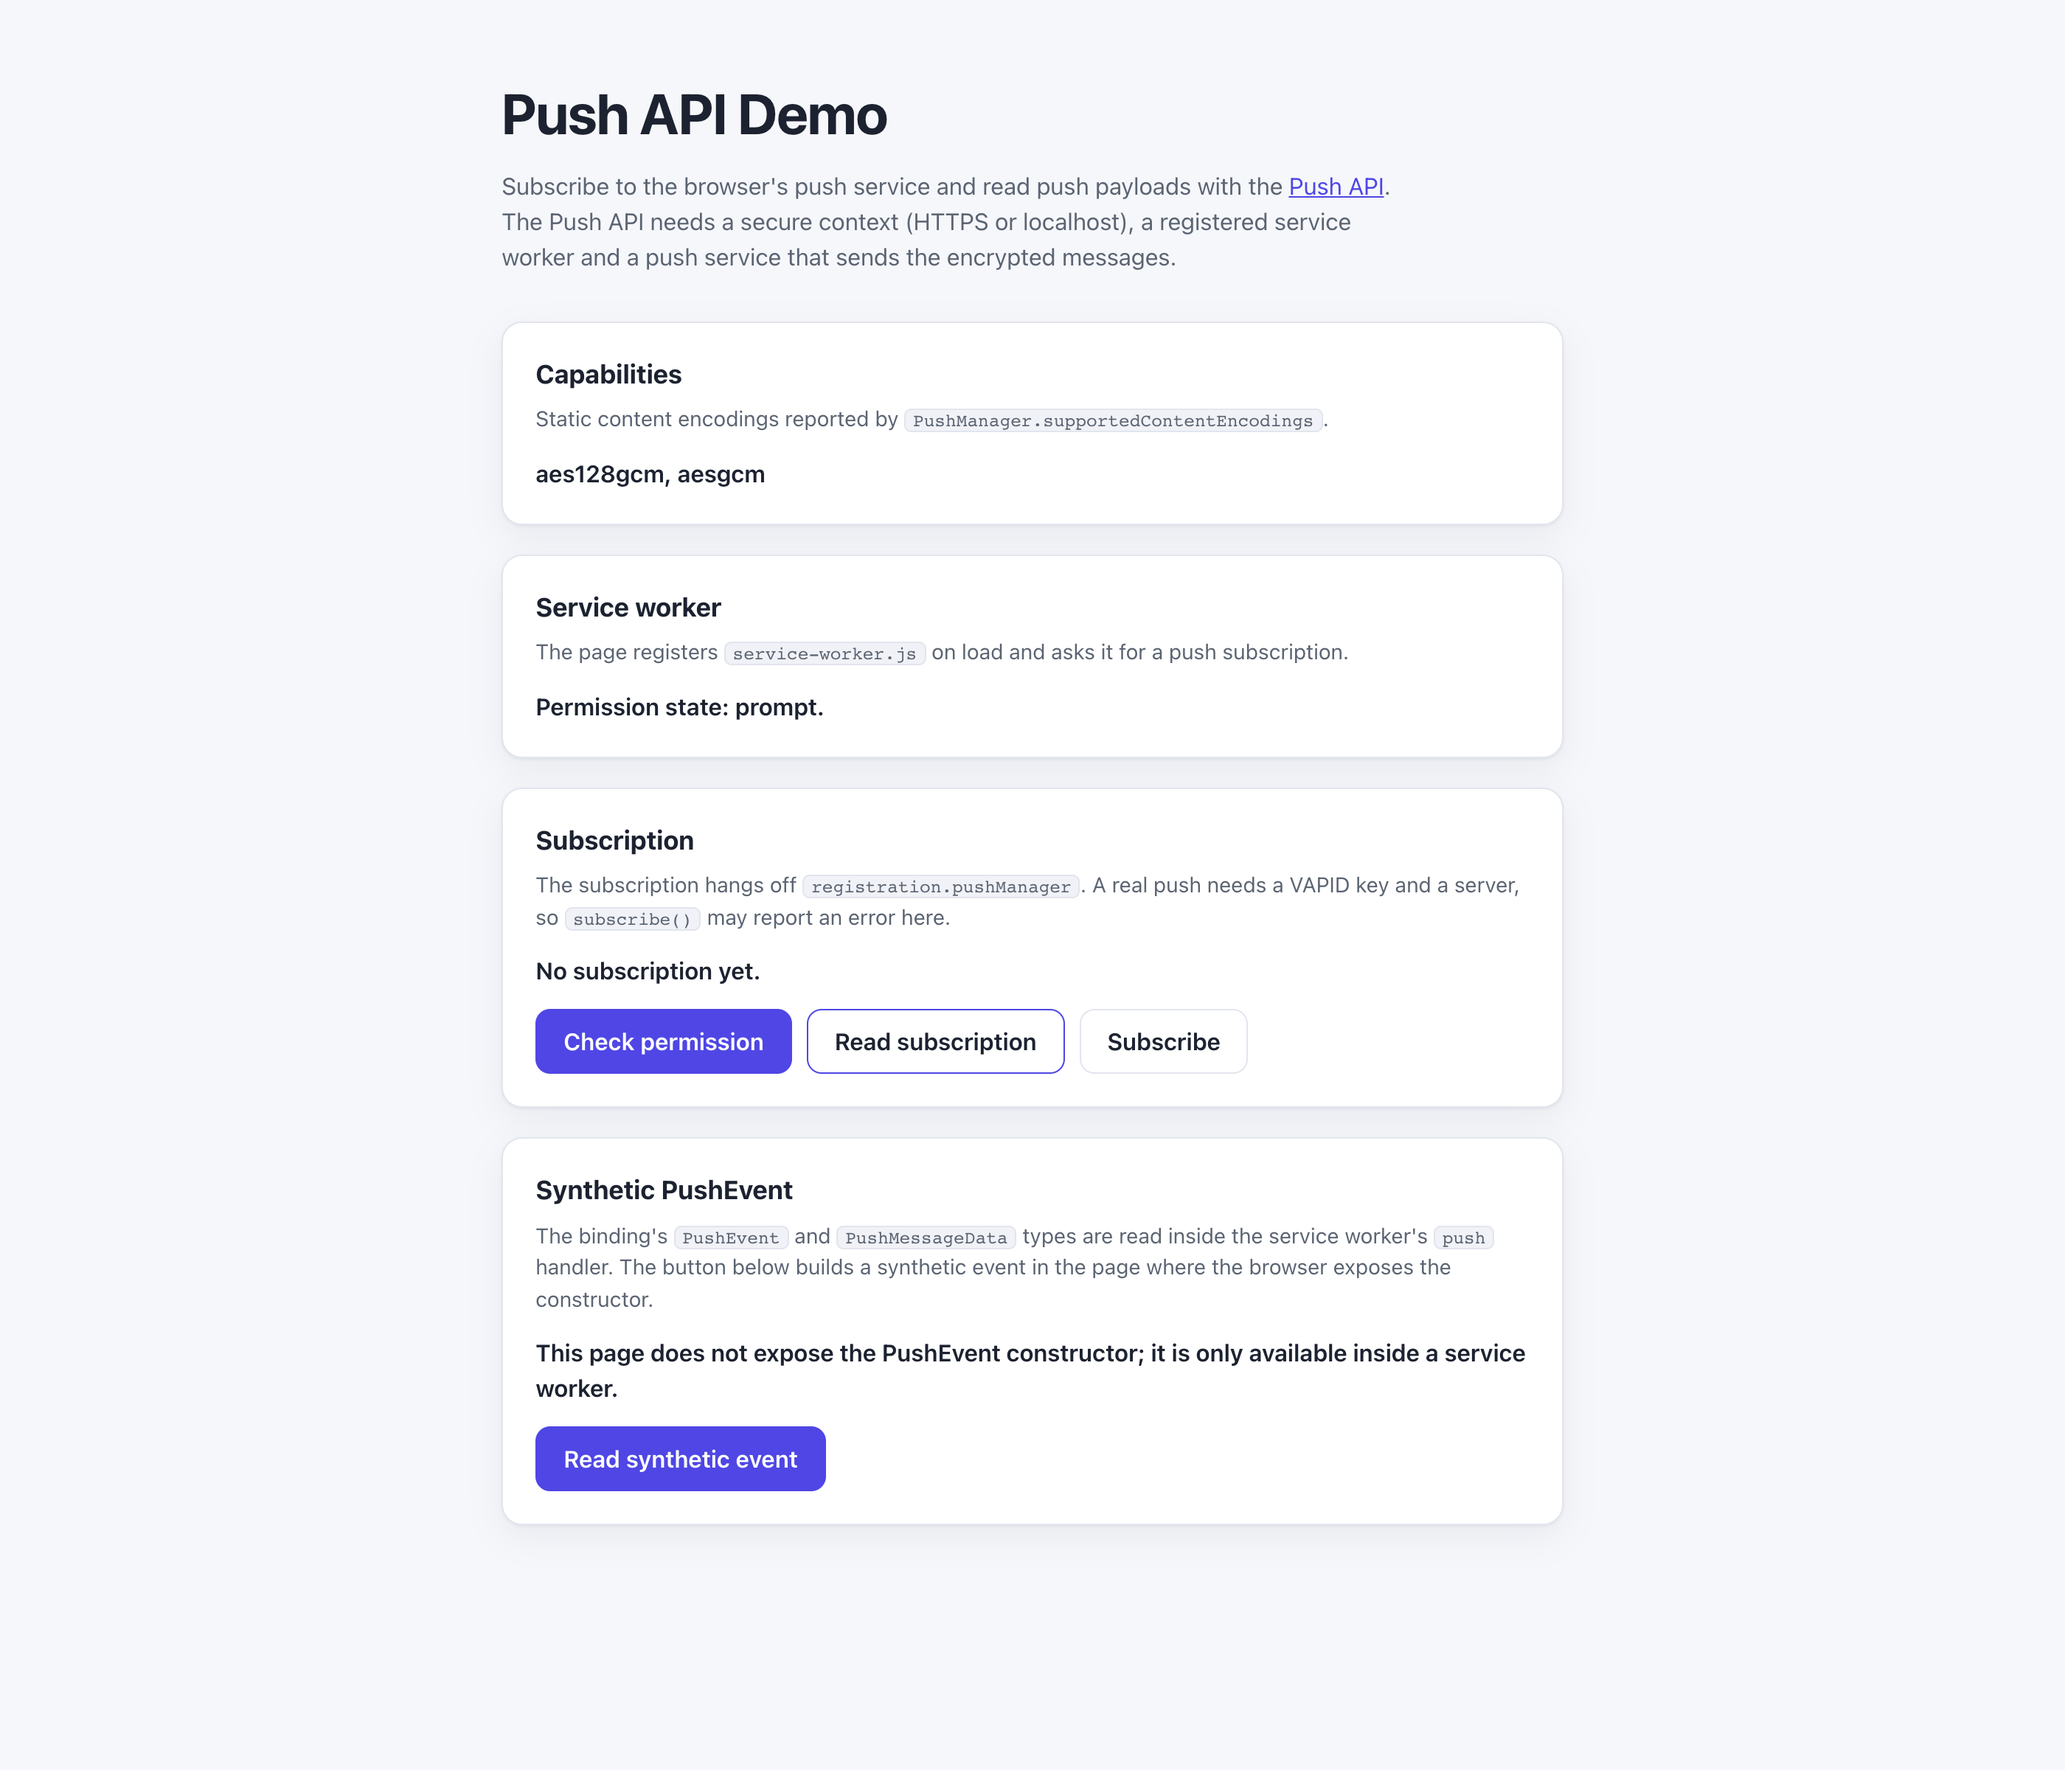
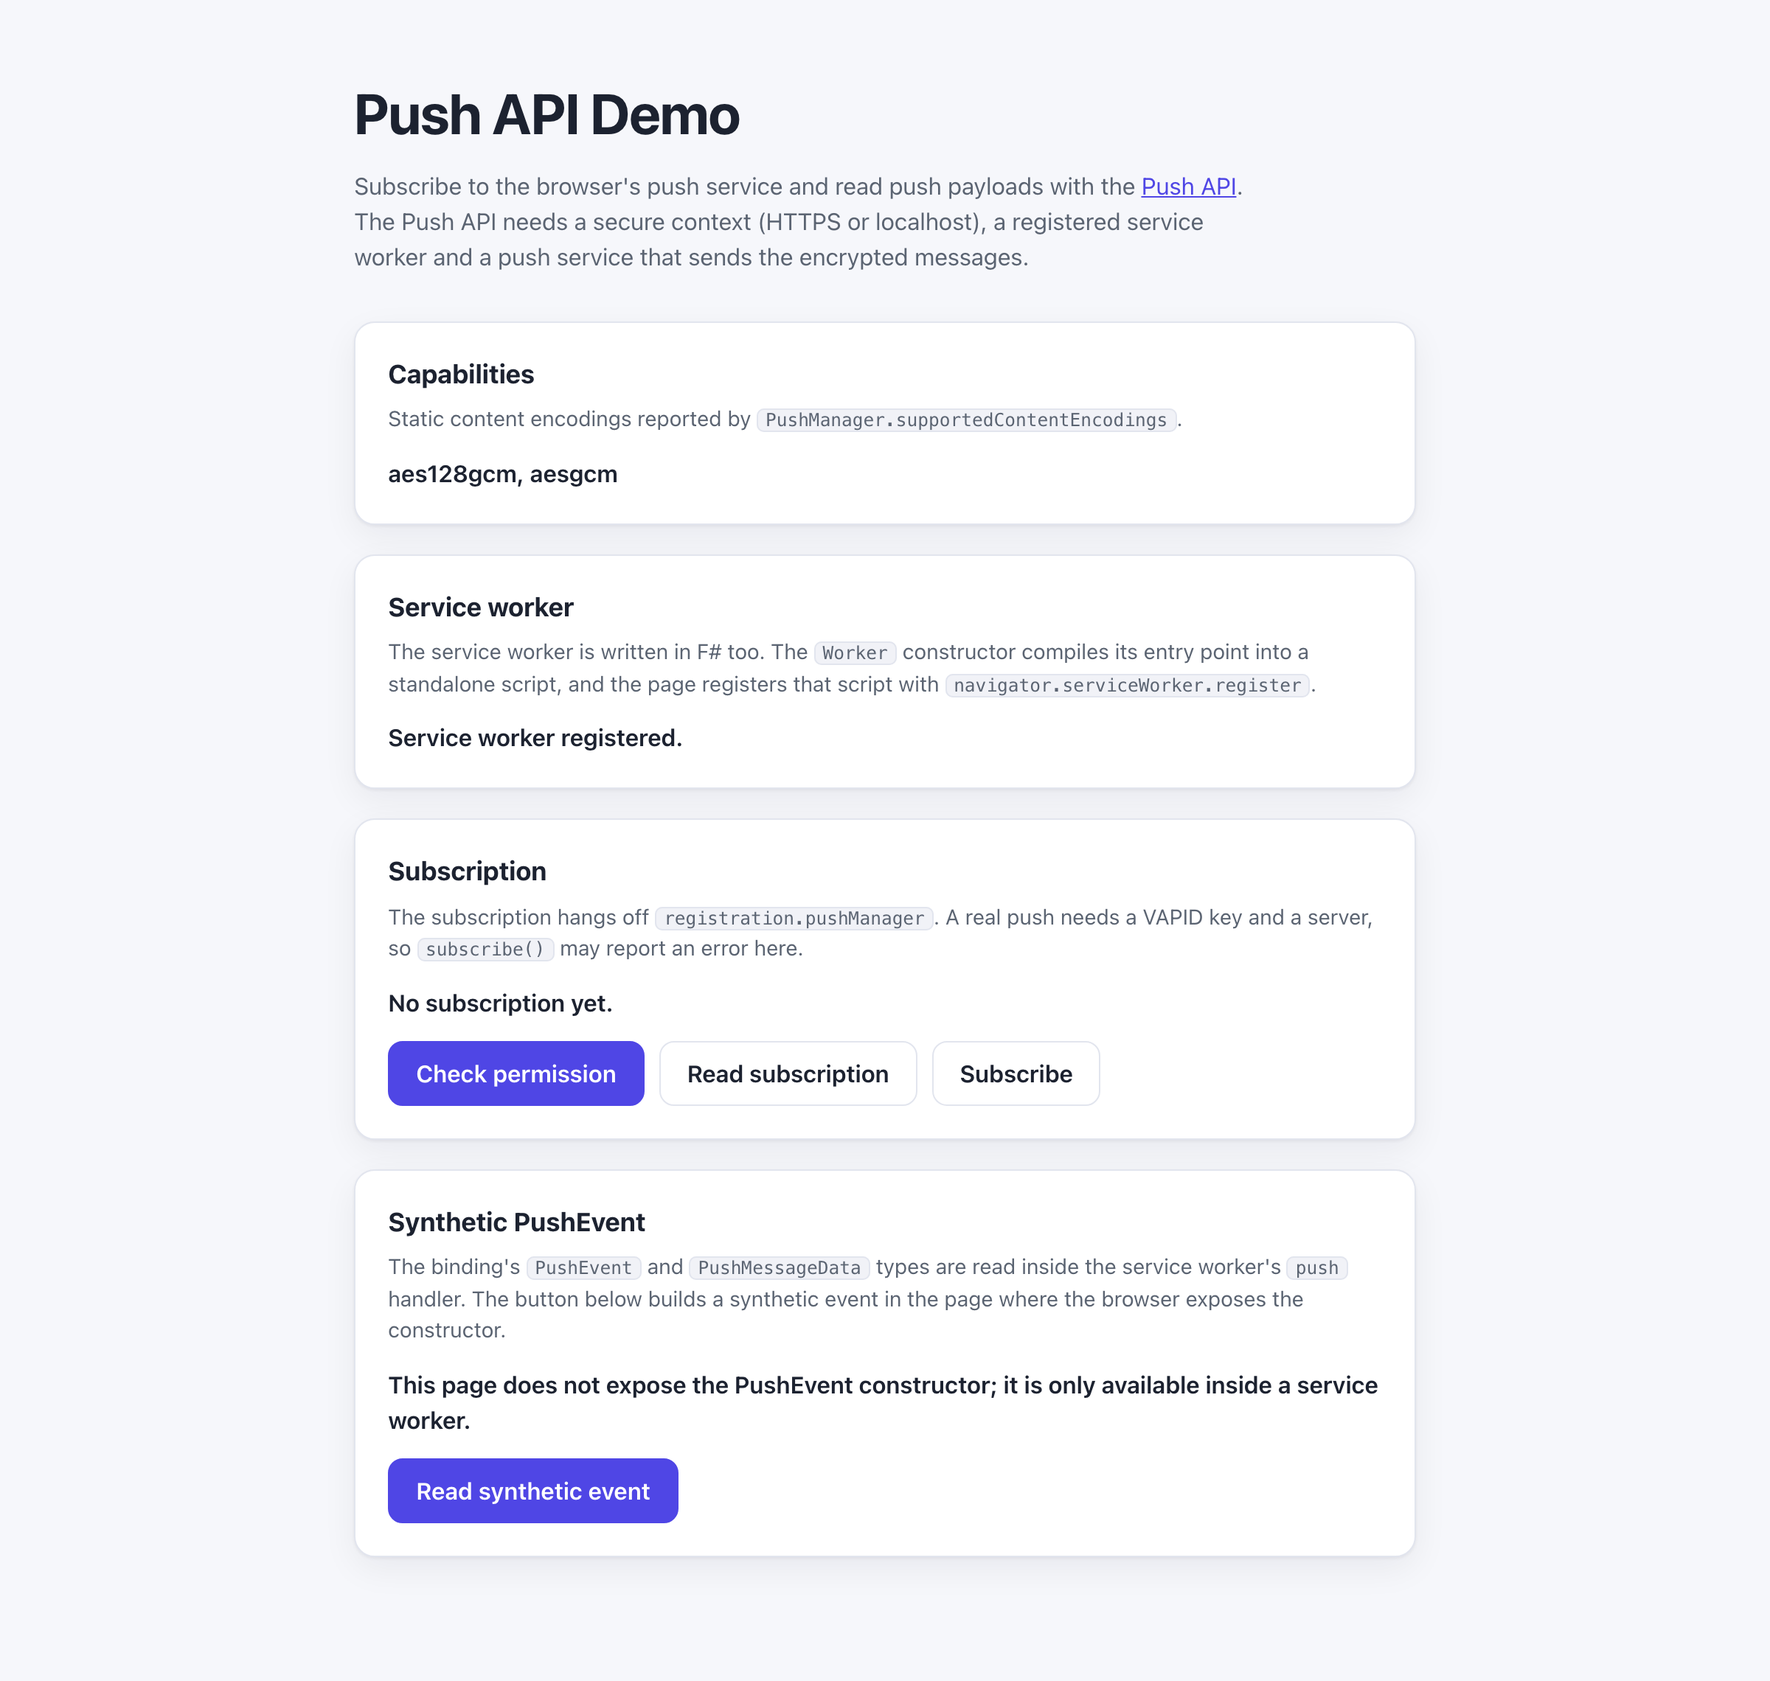
Write the service worker in F# too
The sample shipped a hand-written service-worker.js while the page was F#.
The Worker constructor compiles its entry point into a standalone script, so
the service worker can be written in F# as well.

- Add a ServiceWorker module: the install, activate, push and notificationclick
  handlers, reading the payload through the binding's PushEvent/PushMessageData.
- Register the generated script (type: module) with navigator.serviceWorker and
  keep the registration returned by register() for the pushManager calls.
- Set scriptBaseUrl to /Content/ so the generated worker path matches outputDir.
- Drop the hand-written wwwroot/service-worker.js.
- Update the page copy, README and sample screenshot.

diff --git a/WebSharper.Push.Sample/wwwroot/index.html b/WebSharper.Push.Sample/wwwroot/index.html
@@ -32,7 +32,9 @@
         <section class="card">
             <h2>Service worker</h2>
             <p class="hint">
-                The page registers <code>service-worker.js</code> on load and asks it for a push subscription.
+                The service worker is written in F# too. The <code>Worker</code> constructor compiles its
+                entry point into a standalone script, and the page registers that script with
+                <code>navigator.serviceWorker.register</code>.
             </p>
             <p class="status" role="status">${status}</p>
         </section>

diff --git a/README.md b/README.md
@@ -13,7 +13,7 @@ This repository contains:
 | Project | Purpose |
 | --- | --- |
 | `WebSharper.Push` | The binding: WIG definitions for `PushManager`, `PushSubscription`, `PushSubscriptionOptions`, `PushMessageData`, `PushEvent`, and their string enums. |
-| `WebSharper.Push.Sample` | An ASP.NET Core SPA sample that reports the browser's push capabilities, registers a service worker and drives the push subscription. |
+| `WebSharper.Push.Sample` | An ASP.NET Core SPA sample that reports the browser's push capabilities, registers a service worker and drives the push subscription. The service worker is written in F# too. |
 
 ## Live demos
 
@@ -25,6 +25,10 @@ The sample doubles as the binding's [test case](#running-the-sample): it reads
 `PushManager.supportedContentEncodings`, registers a service worker, queries `permissionState` and
 `getSubscription`, and attempts `subscribe`. A real push still needs a VAPID key and a server, so the
 sample reports the browser's own error instead of faking a subscription.
+
+Both the page and the service worker are written in F#. The service worker's entry point goes through the
+`Worker` constructor, so the compiler produces a standalone script
+(`WebSharper.Push.Sample.service-worker.js`) that the page then registers as the service worker.
 
 - **Sample (this repository):** <https://dotnet-websharper.github.io/PushAPI/>
 - **MDN Push API:** <https://developer.mozilla.org/en-US/docs/Web/API/Push_API>
@@ -77,16 +81,63 @@ module Demo =
 
 `registration` is a `ServiceWorkerRegistration`; its `pushManager` property exposes the `PushManager`. The
 `PushSubscriptionOptions` dictionary is passed to `subscribe()`, and `userVisibleOnly = true` is required by
-Chromium-based browsers. Handle `PushEvent` in the service worker, reading the payload through `PushMessageData`:
+Chromium-based browsers.
+
+### The service worker in F#
+
+The service worker is ordinary F# as well. `Worker` compiles its entry point into a standalone script, so
+passing a function to the constructor gives you both the script and the worker. Register the generated
+script with the browser's service worker API, and handle `push` there, reading the payload through
+`PushMessageData`:
 
 ```fsharp
 [<JavaScript>]
 module ServiceWorker =
-    let onPush (event: PushEvent) =
-        let data = event.Data
-        if not (Optional.isUndefined data) then
-            Console.Log(data.Value.Text())
+    // The service worker global scope is not modelled by core, so reach the
+    // service-worker-only APIs through inline accessors.
+    [<Inline "$self.addEventListener('push', $handler)">]
+    let onPush (self: obj) (handler: PushEvent -> unit) : unit = X<unit>
+
+    [<Inline "$self.registration.showNotification($title, { body: $body })">]
+    let showNotification (self: obj) (title: string) (body: string) : Promise<unit> = X<Promise<unit>>
+
+    [<Inline "$event.waitUntil($promise)">]
+    let waitUntil (event: obj) (promise: obj) : unit = X<unit>
+
+    let EntryPoint (self: DedicatedWorkerGlobalScope) =
+        let scope = box self
+        onPush scope (fun event ->
+            let data = event.Data
+            let body = if Optional.isDefined data then data.Value.Text() else "No payload"
+            waitUntil (box event) (showNotification scope "Push received" body))
 ```
+
+The script is emitted as a module, so register it with `type: "module"`:
+
+```fsharp
+[<JavaScript>]
+module Client =
+    [<Inline "$navigator.serviceWorker">]
+    let serviceWorker (navigator: obj) : obj = X<obj>
+
+    [<Inline "$sw.register($path, { type: 'module' })">]
+    let register (sw: obj) (path: string) : Promise<obj> = X<Promise<obj>>
+
+    let registerWorker () =
+        promise {
+            // The Worker constructor compiles the service worker's entry point
+            // into a standalone script; we only need the script, so the worker
+            // itself is terminated straight away.
+            let worker = new Worker("service-worker", fun self -> ServiceWorker.EntryPoint self)
+            worker.Terminate()
+            let sw = serviceWorker JS.Window.Navigator
+            let! registration = register sw "Content/workers/WebSharper.Push.Sample.service-worker.js"
+            return registration
+        }
+```
+
+The `Worker` constructor emits the script into `Content/workers/`, so `wsconfig.json` sets
+`"scriptBaseUrl": "/Content/"` to keep the generated path in sync with `outputDir`.
 
 ## Running the sample
 
@@ -98,8 +149,11 @@ dotnet run --project WebSharper.Push.Sample/WebSharper.Push.Sample.fsproj
 ```
 
 Open <http://localhost:50560/>. The page reports the browser's supported content encodings, registers
-`service-worker.js`, and lets you query the permission state, read the existing subscription and try to subscribe.
-The service worker's `push` handler logs incoming payloads and shows a notification.
+the generated service worker, and lets you query the permission state, read the existing subscription and
+try to subscribe. The service worker's `push` handler logs incoming payloads and shows a notification.
+
+The service worker script is generated at build time by the `Worker` constructor, so it is not committed;
+the `wwwroot/Content` folder is a build output.
 
 ## Building from source
 
@@ -118,7 +172,7 @@ The binding targets `netstandard2.0`; the sample targets `net10.0`.
 ## Deployment
 
 Pushing to `main` triggers `.github/workflows/ghpages.yml`, which builds the sample in Release and publishes
-`wwwroot` (including `service-worker.js`) to the `gh-pages` branch.
+`wwwroot` — including the generated service worker — to the `gh-pages` branch.
 
 ## Repository layout
 
@@ -128,12 +182,11 @@ WebSharper.Push/            # binding (WIG definitions)
   WebSharper.Push.fsproj
   wsconfig.json
 WebSharper.Push.Sample/     # ASP.NET Core SPA sample
-  Client.fs
+  Client.fs                 # the page and the F# service worker
   Startup.fs
   wwwroot/
     index.html
     site.css
-    service-worker.js
 docs/sample.png
 .github/workflows/ghpages.yml   # build + deploy the sample to GitHub Pages
 README.md
@@ -146,7 +199,11 @@ LICENSE.md
 - **Push service:** a push subscription is tied to a browser push service (FCM, Mozilla autopush, and so on) and to a
   server that sends the encrypted messages.
 - **Service worker:** `subscribe()` must be called on a service worker registration, and a service worker must handle
-  the `push` event. Use `ServiceWorkerRegistration.pushManager` to obtain the `PushManager`.
+  the `push` event. Use `ServiceWorkerRegistration.pushManager` to obtain the `PushManager`. The sample writes that
+  worker in F# and registers the script the `Worker` constructor generates.
+- **`Worker` and module scripts:** the `Worker` constructor emits an ES module, so the page registers it with
+  `{ type: "module" }` and the worker's scope stays at the script's directory (`Content/workers/`). The page itself is
+  not controlled by the worker, which is fine for the Push API — it only needs the registration.
 - **User gesture:** call `subscribe()` from a user gesture (for example, a button click). Browsers may reject the
   request otherwise, and the user is asked for notification permission.
 - **`userVisibleOnly`:** pass `PushSubscriptionOptions(UserVisibleOnly = true)` to `subscribe()` and `permissionState()`.
@@ -157,8 +214,8 @@ LICENSE.md
   `PushSubscription.expirationTime` and `PushSubscription.getKey()` may be `null`, and `PushEvent.data` may be `null`.
   The binding models these as `Optional<'T>`; check with `Optional.isUndefined` and `isNull`.
 - **`supportedContentEncodings`:** the static `PushManager.supportedContentEncodings` property is a `string[]`.
-- **`PushEvent` constructor:** the browser only exposes it inside a service worker, so a page cannot build a
-  synthetic event. The sample's `service-worker.js` reads `event.data` in its `push` handler.
+- **`PushEvent` constructor:** the browser only exposes it inside a service worker, so the page cannot build a
+  synthetic event. The sample's F# service worker reads `event.data` in its `push` handler instead.
 - **Browser support:** supported by Chromium-based browsers and Firefox; Safari supports the Push API for web apps
   added to the Home Screen (iOS 16.4+).
 
